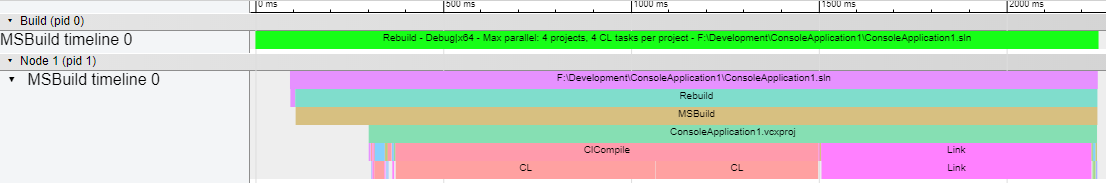
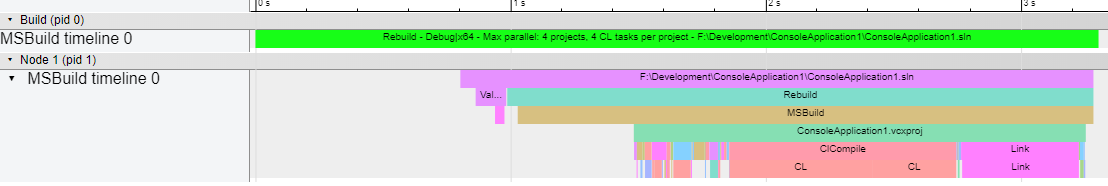
Finishes first version of the draft

Changed region(s): [[0.0, 0.0, 1.0, 0.9677]]

diff --git a/_drafts/investigating-cpp-compile-times-2.md b/_drafts/investigating-cpp-compile-times-2.md
@@ -1,6 +1,6 @@
 ---
 layout: single
-title: "Understanding MSBuild to build flame graphs"
+title: "Understanding MSBuild to create flame graphs"
 excerpt: "Let's explore how MSBuild works and how we can visualize its process"
 author: Meta
 category: Toolbox
@@ -50,7 +50,7 @@ We'll get something like:
 
 This is basically like building the solution in Visual Studio and copying the `Output` panel. However, that's it. I guess this isn't enough for us.
 
-In the previous post I mentioned Visual Studio Extensions use a SDK that lets you hook to MSBuild events and perform your own logic. So, Visual Studio is using MSBuild under the hood, isn't it?
+In the previous post I mentioned Visual Studio Extensions use a SDK that lets you hook to MSBuild events and perform your own logic. That means Visual Studio is using MSBuild under the hood, doesn't it?
 
 Let's try to build our solution with MSBuild directly (again, within Visual Studio's Developer Command Prompt):
 
@@ -60,7 +60,7 @@ msbuild.exe Z:\path\to\solution.sln /t:Rebuild
 
 This will rebuild our solution and dump a lot of information to console. It looks very much like setting *MSBuild project build output verbosity* to `Normal` or `Detailed` in Visual Studio's Options window!
 
-We're getting closer, and [MSBuild official documentation](https://docs.microsoft.com/visualstudio/msbuild/msbuild){:target="_blank"} has a lot more information, like [using MSBuild programmatically](https://docs.microsoft.com/visualstudio/msbuild/msbuild-api){:target="_blank"}.
+We're getting closer, and [MSBuild official documentation](https://docs.microsoft.com/visualstudio/msbuild/msbuild){:target="_blank"} has a lot more information on the topic. The key section, for us, will be [using MSBuild programmatically](https://docs.microsoft.com/visualstudio/msbuild/msbuild-api){:target="_blank"}.
 
 # The goal
 
@@ -87,7 +87,9 @@ BuildRequestData data = new BuildRequestData("Z:\\path\\to\\solution.sln",
                                              new[] { "Rebuild" },
                                              null);
 
-BuildParameters parameters = new BuildParameters();
+// not providing this default ProjectCollection causes unordered builds
+ProjectCollection projectCollection = new ProjectCollection();
+BuildParameters parameters = new BuildParameters(projectCollection);
 BuildResult result = BuildManager.DefaultBuildManager.Build(parameters, data);
 switch(result.OverallResult)
 {
@@ -106,7 +108,7 @@ For it to work you need these `BuildRequestData`, `BuildParameters` and `BuildMa
 
 ## Reference MSBuild assemblies
 
-By the time I started working on this tool I was using Visual Studio 2015 and I didn't know where to find any of these assemblies. I only knew they were part of `Microsoft.Build` packages. So I tried adding a Reference to them via `Framework`:
+By the time I started working on this tool I was using Visual Studio 2015 and I didn't know where to find any of these assemblies. I only knew they were part of `Microsoft.Build` packages, as stated in the official docs. So I tried adding a Reference to them via `Framework`:
 
 ![MSBuild assemblies via Framework]({{ '/' | absolute_url }}/assets/images/per-post/investigating-cpp-compile-times-2/msbuild-assemblies-framework.png "Assemblies via Framework"){: .align-center}
 
@@ -154,7 +156,9 @@ Everything seemed to work... until I tried to migrate to MSBuild 15 (so I could 
 
 Apparently, versions under MSBuild 15 were bound to their Visual Studio installation and the new recommended way is to pull them via NuGet packages so they're separate.
 
-My GameBoy emulator project is built in C++ but uses [a Logger built in WPF]({{ '/' | absolute_url }}log-window-0/). Turns out, WPF uses MSBuild itself to process `.xaml` files (its UI-definition files). So, it tries to spawn and wait for a new MSBuild process within ours! That results in an `Unknown build error: object reference not set to an instance of an object`. Yes, a null pointer exception is all of the info you have to diagnose it. Good.
+With that in place I was able to build VS2017 C++ projects, but had no luck with C# ones.
+
+My GameBoy emulator is built in C++ but uses [a Logger built in WPF]({{ '/' | absolute_url }}log-window-0/). Turns out, WPF uses MSBuild itself to process `.xaml` files (its UI-definition files). That means it tries to spawn and wait for a new MSBuild process within ours! That results in an `Unknown build error: object reference not set to an instance of an object`. Yes, a null pointer exception is all of the info you have to diagnose it. Good.
 
 The fix is quite simple, however! Add this property to you WPF project:
 
@@ -168,7 +172,7 @@ And it will use the same MSBuild instance that invoked the build. *Voilà*!
 
 Alright! We've managed to make a solution build but we have nothing else to work with! Fear not, the API defines the `ILogger` interface and the basic `Logger` class for us! More info on the [Build Loggers docs](https://docs.microsoft.com/visualstudio/msbuild/build-loggers){:target="_blank"}.
 
-Let's just take everything we can get:
+Let's just take everything we can get from the build:
 
 {% highlight c# %}
 public class AllMessagesLogger : Logger
@@ -198,7 +202,7 @@ We can now print the message associated to every event MSBuild emits. And believ
 
 Still, there are some interesting things we should investigate.
 
-### Which events we can hook to?
+### Which events can we hook to?
 
 This is the definition of `IEventSource`:
 
@@ -299,8 +303,7 @@ If we continue exploring this `.vcxproj` file we'll find this section:
     <Optimization>Disabled</Optimization>
     <PreprocessorDefinitions>_DEBUG;_LIB;%(PreprocessorDefinitions)</PreprocessorDefinitions>
     <SDLCheck>true</SDLCheck>
-    <MultiProcessorCompilation>true</MultiProcessorCompilation>
-    <MinimalRebuild>false</MinimalRebuild>
+    <MinimalRebuild>true</MinimalRebuild>
   </ClCompile>
   <Link>
     <SubSystem>Windows</SubSystem>
@@ -310,7 +313,7 @@ If we continue exploring this `.vcxproj` file we'll find this section:
 <!-- [...] -->
 {% endhighlight %}
 
-There are two parts I want you to pay attention to, in this case: `ClCompile` and `Link`. Both are specialized `Target` definitions (we'll see *how* in a moment) and the stuff they contain are *properties*. These are part of a `Project` and they group `Task` definitions together in a given order. You can read more in the [official documentation](https://docs.microsoft.com/visualstudio/msbuild/msbuild-targets){:target="_blank"}.
+There are two parts I want you to pay attention to: `ClCompile` and `Link`. Both are specialized `Target` definitions (we'll see *how* in a moment) and the stuff they contain are *properties*. A `Target` lives within a `Project` and group `Task` definitions together in a given order. You can read more in the [official documentation](https://docs.microsoft.com/visualstudio/msbuild/msbuild-targets){:target="_blank"}.
 
 ### Task
 
@@ -380,14 +383,17 @@ We'll get a `solution.sln.metaproj` file we can open. And surprise! It's a MSBui
 
 {% highlight xml %}
 <?xml version="1.0" encoding="utf-8"?>
-<Project ToolsVersion="14.0" xmlns="http://schemas.microsoft.com/developer/msbuild/2003" InitialTargets="ValidateSolutionConfiguration;ValidateToolsVersions;ValidateProjects" DefaultTargets="Build">
+<Project ToolsVersion="14.0"
+         xmlns="http://schemas.microsoft.com/developer/msbuild/2003"
+         InitialTargets="ValidateSolutionConfiguration;ValidateToolsVersions;ValidateProjects"
+         DefaultTargets="Build">
 	<!-- [...] -->
 	<Target Name="GameBoy:Rebuild" ... />
 	<!-- [...] -->
 </Project>
 {% endhighlight %}
 
-This is why we can Rebuild a single project (and its dependencies) by executing:
+See the name of the generated `Target`? This is why we can Rebuild a project (and not the full solution) by executing:
 
 {% highlight text %}
 msbuild.exe Z:\path\to\solution.sln /t:ProjectName:Rebuild
@@ -442,10 +448,10 @@ At first I thought it would be enough to keep stacking events together but soon 
 
 Here's where we go back to the `BuildEventContext`. Remember it had `ProjectInstanceId`, `TargetId` and `TaskId` members? Thanks to that, we can recreate the actual hierarchy!
 
-Each context will populate these values as we get deeper in the hierarchy (i.e. a `Project` won't have a `TargetId` defined), but there are two exceptions:
+Each context will populate these values as we get deeper in the hierarchy (i.e. a `Project` won't have a `TargetId` defined), with some exceptions:
 
   * The `Build` is a unique element with no context.
-  * A `Project` can have no parent context (it's a top-level one) or reference a `Task` context via `ParentEventContext` member (part of the `ProjectStartedEvent` class).
+  * A `Project` has a `ParentEventContext` member (defined in the `ProjectStartedEvent` class). It can be empty (it's a top-level one) or reference a `Task` context.
 
 There are a lot of caveats in the implementation, some inconsistencies (like a `Task` that spawns a `Project` but that `Task` is finished before the `Project` even starts), and some trial and error.
 
@@ -494,11 +500,9 @@ In this small example you can see how to create hierarchies in this format. You 
 
 ![Google Chrome's trace viewer example]({{ '/' | absolute_url }}/assets/images/per-post/investigating-cpp-compile-times-2/trace-example.png "Google Chrome's trace viewer example")
 
-And finally, let's build real traces!
-
 # The result
 
-Let's take everything, build some projects and see what's going on!
+Let's take everything, build a couple of projects and see it in action!
 
 ## Blank project
 
@@ -506,7 +510,7 @@ If you create a blank `C++ Win32 Console Application` in Visual Studio 2015 with
 
 ![Blank project flame graph]({{ '/' | absolute_url }}/assets/images/per-post/investigating-cpp-compile-times-2/blank-project-flame-graph.png "Blank project's flame graph"){: .align-center}
 
-See how it has two `CL` tasks? One is the pre-compiled header and the other one is the main file.
+See how it has two `CL` tasks? One is the pre-compiled header and the other one is the main file. We'll see why they're separate in the next post.
 
 ## GameBoy emulator
 
@@ -516,10 +520,16 @@ This is the trace from my GameBoy emulator (we'll try to improve it in the next 
 
 See how it's using several `NodeId` and each one has a number of *timelines*? They represent projects with dependencies!
 
-The top-level Solution executes a `MSBuild` task to build `MainWindows.vcxproj.metaproj` (within the same `NodeId`) and `Test.vcxproj.metaproj` (in a separate `NodeId`). Both wait for `GameBoy.vcxproj.metaproj` to finish, which in turn waits for `LogLibrary.vcxproj.metaproj` to build...
+The top-level Solution executes a `MSBuild` task to build `MainWindows.vcxproj.metaproj` (within the same `NodeId`) and `Test.vcxproj.metaproj` (in a separate `NodeId`). Both wait for `GameBoy.vcxproj.metaproj` to finish (although it's unreadable in the graph), which in turn waits for another project to build...
 
-It's a bit complex because of the (seemingly) arbitrary `NodeId` switches, but that's the process!  
+It's a bit complex because of the (seemingly) arbitrary `NodeId` switches, but that's how it schedules project builds!  
 Remember, these `.vcxproj.metaproj` are generated from the `.sln` file!
+
+We can force the execution to build only *one project* in parallel, and this is the result:
+
+![GameBoy emulator flame graph, one parallel project]({{ '/' | absolute_url }}/assets/images/per-post/investigating-cpp-compile-times-2/gameboy-emulator-one-parallel-project-flame-graph.png "GameBoy emulator's flame graph, one parallel project"){: .align-center}
+
+Now, dependencies are much more apparent!
 
 ## Bruce Dawson's parallel build
 
@@ -533,7 +543,7 @@ If you want to know why there are that many `CL` tasks, I invite you to check hi
 
 That's all for now! We've seen how to invoke MSBuild from C# and use its `Logger` to create our flame graphs.
 
-In the next post we'll play around with these graphs to diagnose possible issues, add and remove some MSVC flags to get extra information (I'm looking at you `/Bt+` and `/d1reportTime`!).
+In the next post we'll try to understand these graphs, try to diagnose possible issues, and add/remove some MSVC flags to get extra information (I'm looking at you `/Bt+` and `/d1reportTime`!).
 
 ![Teaser of /d1reportTime as a flame graph]({{ '/' | absolute_url }}/assets/images/per-post/investigating-cpp-compile-times-1/teaser-d1reporttime-flag.png "Teaser of /d1reportTime as a flame graph"){: .align-center}
 
